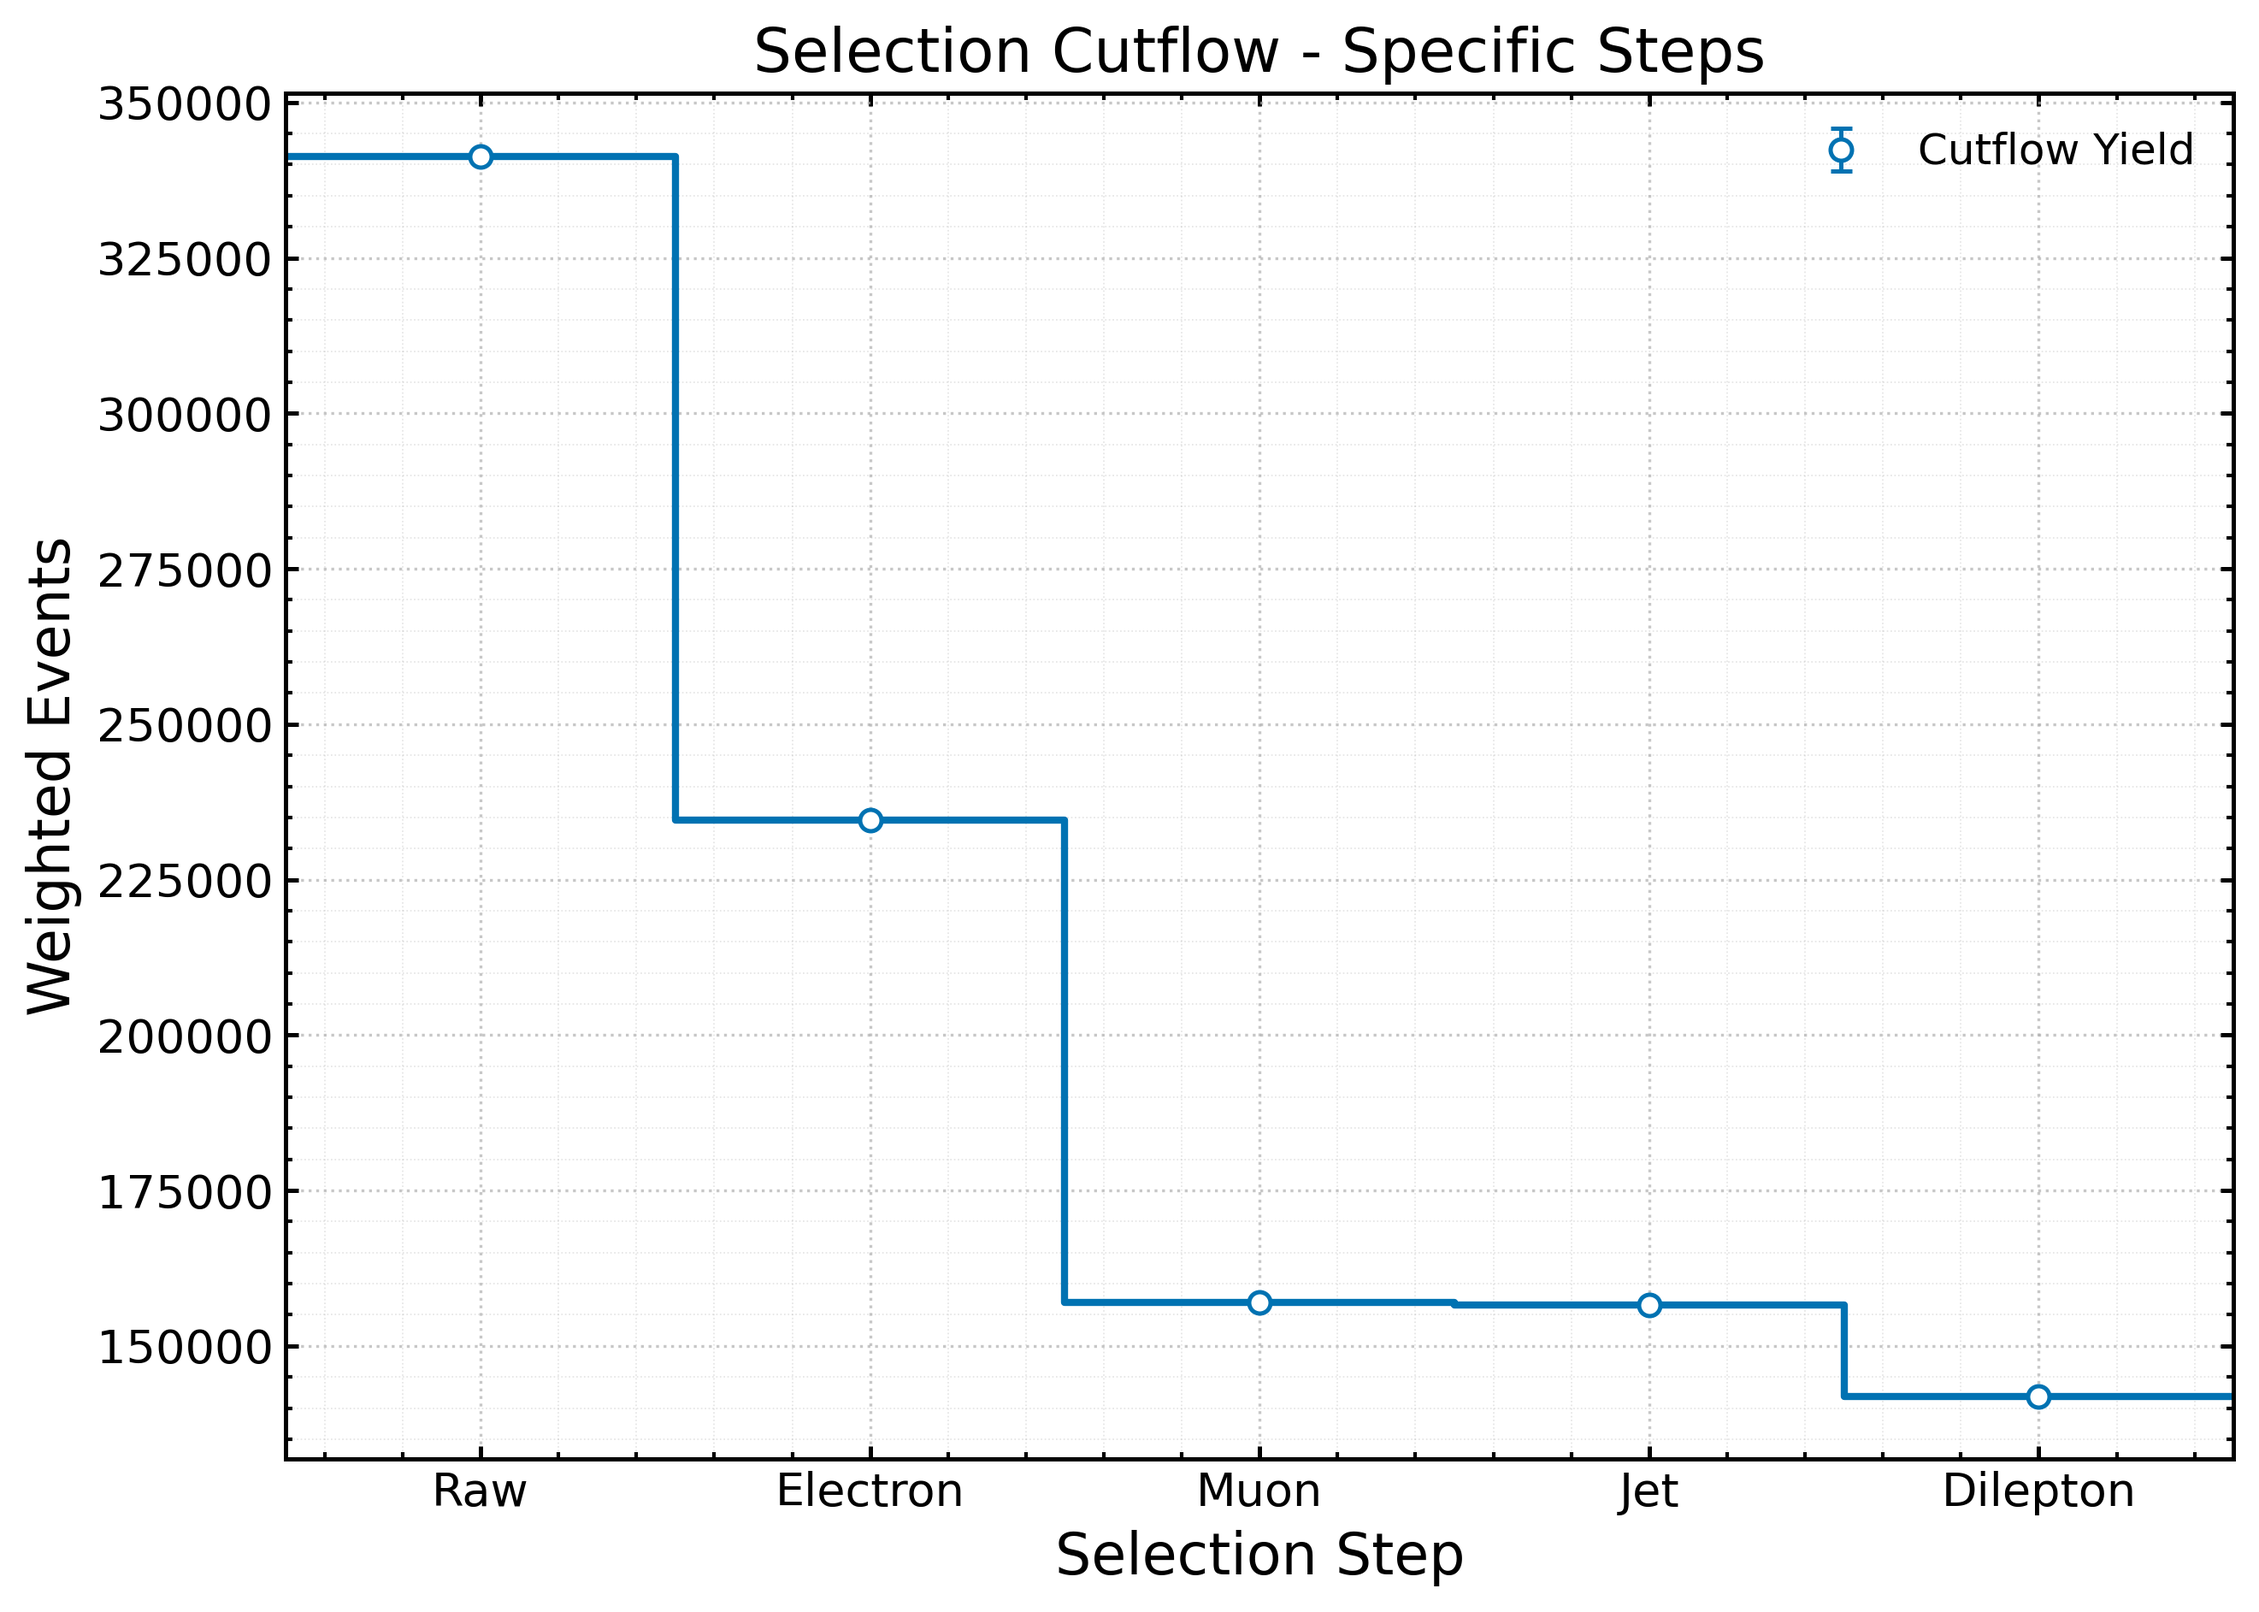
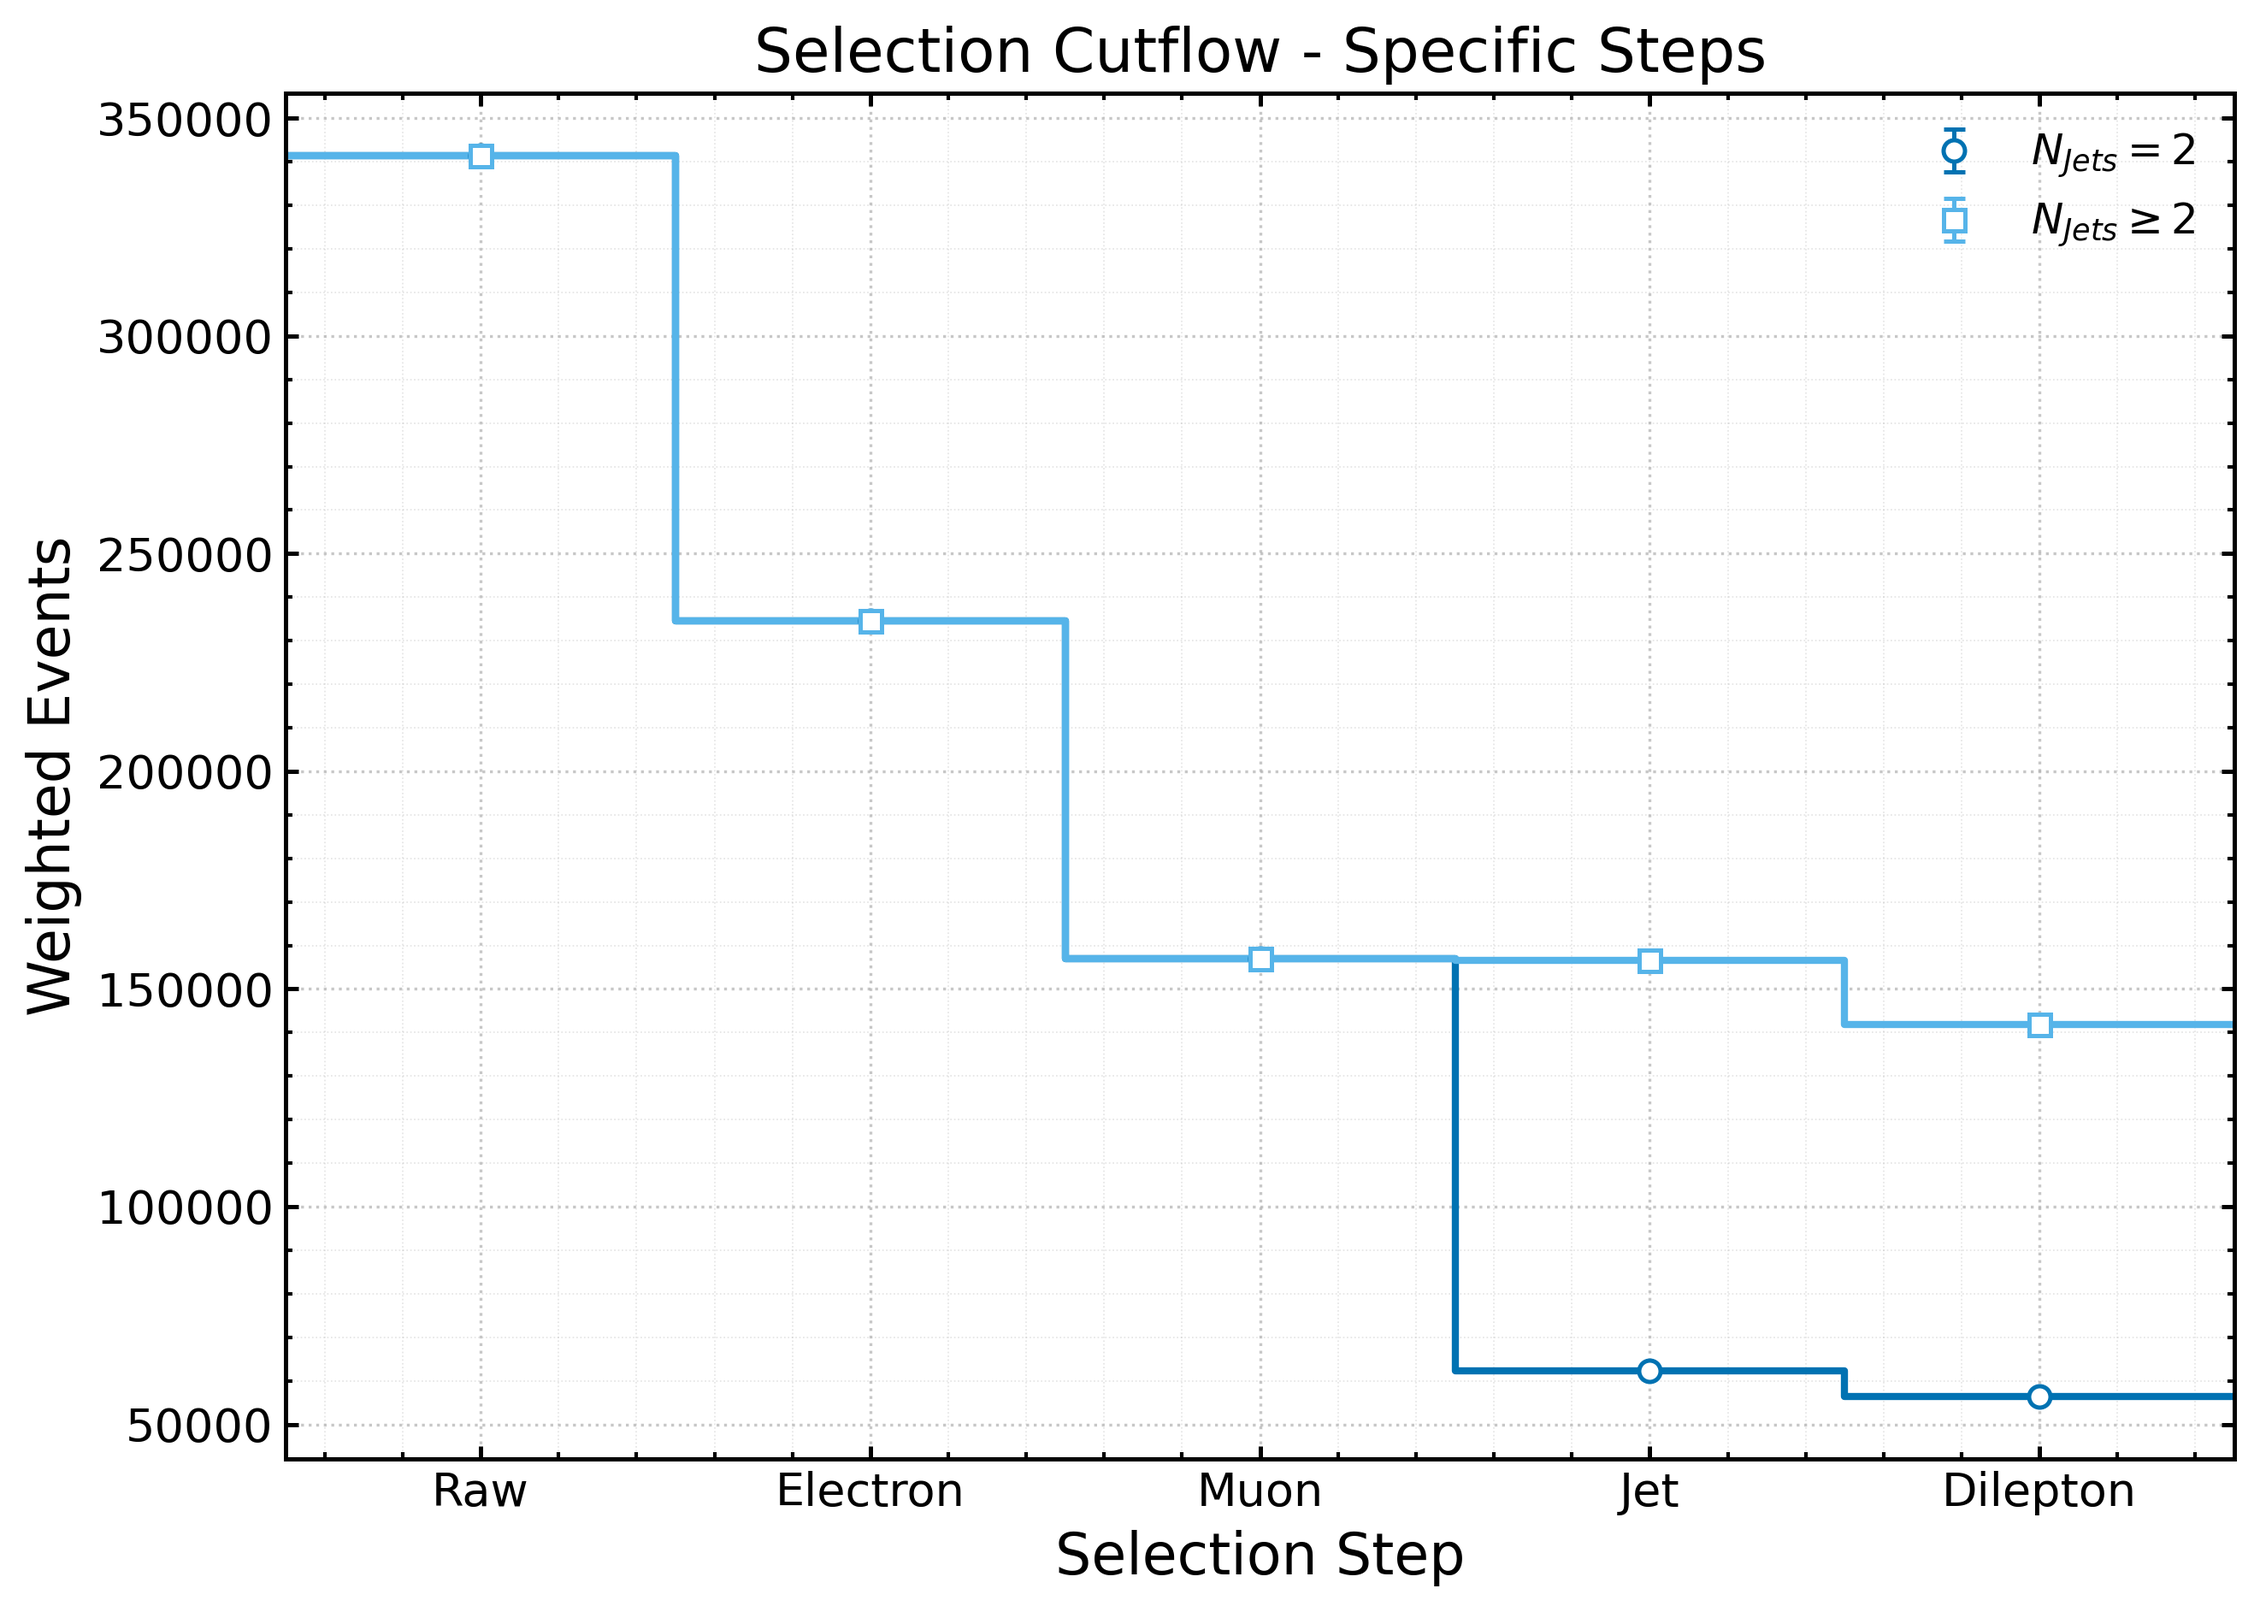
2.11.6 - Jet selection correction and only the cut-flow plot had to be corrected

diff --git a/weight_distro_debug.py b/weight_distro_debug.py
@@ -3,19 +3,67 @@ import awkward as ak
 import numpy as np
 import matplotlib.pyplot as plt
 
+# ------------------------------------------------
 # Open ROOT file
-file = uproot.open("output_ntuples/ttll_601230_mc23a_fullsim.root")
+# ------------------------------------------------
+filename = "output_ntuples/ttll_601230_mc23a_fullsim.root"
+treename = "reco"
 
-# Access tree
-tree = file["reco"]
+# ------------------------------------------------
+# MC normalisation
+# ------------------------------------------------
+luminosity = 29300.0
+xsec = 85.482
+filter_eff = 1.0
+kfactor = 1.138433852
+sum_of_weights = 4268786417.0
 
-# Read event weights
-weights = tree["weight_mc_NOSYS"].array(library="ak")
+norm = luminosity * xsec * filter_eff * kfactor / sum_of_weights
 
+# ------------------------------------------------
+# Branches
+# ------------------------------------------------
+branches = [
+    "weight_mc_NOSYS",
+    "weight_pileup_NOSYS",
+    "weight_leptonSF_tight_NOSYS",
+    "weight_jvt_effSF_NOSYS",
+]
+
+# ------------------------------------------------
+# Read arrays
+# ------------------------------------------------
+with uproot.open(filename) as f:
+    tree = f[treename]
+    arr = tree.arrays(branches, library="ak")
+
+# ------------------------------------------------
+# Total event weight
+# ------------------------------------------------
+total_weights = (
+    arr["weight_mc_NOSYS"]
+    * arr["weight_pileup_NOSYS"]
+    * arr["weight_leptonSF_tight_NOSYS"]
+    * arr["weight_jvt_effSF_NOSYS"]
+    * norm
+)
+
+# ------------------------------------------------
 # Convert to numpy
-weights_np = ak.to_numpy(weights)
+# ------------------------------------------------
+weights_np = ak.to_numpy(total_weights)
 
-# Plot
+# ------------------------------------------------
+# Print first 10 weights
+# ------------------------------------------------
+print("\nFirst 10 total event weights:\n")
+
+for i, w in enumerate(weights_np[:10]):
+    print(f"{i:2d} : {w:.12e}")
+
+# ------------------------------------------------
+# Plot distribution
+# ------------------------------------------------
 plt.figure(figsize=(8,6))
 
 plt.hist(
@@ -24,12 +72,17 @@ plt.hist(
     histtype="step",
 )
 
-plt.xlabel("Event weight")
-plt.ylabel("Events")
-plt.title("Event-weight distribution")
+plt.xlabel("Total Event Weight")
+plt.ylabel("Number of Events")
+plt.title("Total Event-Weight Distribution")
 
-plt.yscale("log")   # usually useful
-plt.grid(True)
+plt.yscale("log")
+plt.grid(True, alpha=0.3)
 
-plt.savefig("event_weight_distribution_debug.png")
+plt.tight_layout()
+
+plt.savefig("total_event_weight_distribution_debug.png")
 plt.close()
+
+print("\nSaved plot:")
+print("total_event_weight_distribution_debug.png")

diff --git a/cutflow_histogramplot.py b/cutflow_histogramplot.py
@@ -6,11 +6,19 @@ import matplotlib.pyplot as plt
 # Format: [step_index, yield, error]
 # =================================================
 cutflow_data = np.array([
-    [0, 341360.687500, 141.095291],  # Raw
-    [1, 234636.984375, 118.574173],  # Electron
-    [2, 156940.703125, 96.629234],   # Muon
-    [3, 156629.250000, 96.533752],   # Jet
-    [4, 141930.312500, 91.901764],   # Dilepton
+    [0, 341359.781250, 141.087799],  # Raw
+    [1, 234633.218750, 118.573502],  # Electron
+    [2, 156931.593750, 96.629913],   # Muon
+    [3, 62245.519531, 60.859730],    # Jet
+    [4, 56412.792969, 57.957935],    # Dilepton
+], dtype=float)
+
+cutflow_nj_geq2 = np.array([
+    [0, 341359.781250, 141.087799],  # Raw
+    [1, 234633.218750, 118.573502],  # Electron
+    [2, 156931.593750, 96.629913],   # Muon
+    [3, 156620.046875, 96.534782],    # Jet
+    [4, 141923.625000, 91.901085],    # Dilepton
 ], dtype=float)
 
 labels = ["Raw", "Electron", "Muon", "Jet", "Dilepton"]
@@ -41,6 +49,9 @@ plt.rcParams.update({
 
 COLOR = "#0072B2"  # Okabe–Ito blue
 MARKER = "o"
+
+COLOR2 = "#56B4E9"
+MARKER2 = "s"
 
 BIN_WIDTH = 1.0
 
@@ -84,10 +95,42 @@ def plot_with_errorbars(ax, x, y, yerr, label, bin_width=1.0):
         zorder=3
     )
 
+def plot_with_errorbars2(ax, x, y, yerr, label, bin_width=1.0):
+    edges = centres_to_edges(x, width=bin_width)
+
+    # Step histogram
+    ax.step(
+        edges,
+        np.r_[y, y[-1]],
+        where="post",
+        color=COLOR2,
+        linewidth=2.0,
+        zorder=2
+    )
+
+    # Marker + uncertainty
+    ax.errorbar(
+        x, y, yerr=yerr,
+        fmt=MARKER2,
+        color=COLOR2,
+        markerfacecolor="white",
+        markeredgecolor=COLOR2,
+        markersize=6,
+        markeredgewidth=1.2,
+        ecolor=COLOR2,
+        elinewidth=1.2,
+        capsize=3,
+        linewidth=0,
+        label=label,
+        zorder=3
+    )
+
 # =================================================
 # Unpack
 # =================================================
 x, y, yerr = unpack(cutflow_data)
+geq2_x, geq2_y, geq2_yerr = unpack(cutflow_nj_geq2)
+
 edges = centres_to_edges(x, width=BIN_WIDTH)
 
 # =================================================
@@ -95,7 +138,8 @@ edges = centres_to_edges(x, width=BIN_WIDTH)
 # =================================================
 fig, ax = plt.subplots()
 
-plot_with_errorbars(ax, x, y, yerr, "Cutflow Yield", bin_width=BIN_WIDTH)
+plot_with_errorbars(ax, x, y, yerr, r"$N_{Jets}=2$", bin_width=BIN_WIDTH)
+plot_with_errorbars2(ax, geq2_x, geq2_y, geq2_yerr, r"$N_{Jets}\geq2$", bin_width=BIN_WIDTH)
 
 ax.set_xlabel("Selection Step")
 ax.set_ylabel("Weighted Events")

diff --git a/cutflow_analysis.py b/cutflow_analysis.py
@@ -19,6 +19,7 @@ norm = luminosity * xsec * filter_eff * kfactor / sum_of_weights
 branches = [
     "selection_cuts_NOSYS",
 
+    "jet_size_NOSYS",
     "electron_selections_paper_NOSYS",
     "muon_selections_paper_NOSYS",
     "jet_selections_paper_NOSYS",
@@ -52,7 +53,7 @@ mask_raw = (arr["selection_cuts_NOSYS"] == 1) | (arr["selection_cuts_NOSYS"] == 
 
 mask_electron = mask_raw & (arr["electron_selections_paper_NOSYS"] == 1)
 mask_muon     = mask_electron & (arr["muon_selections_paper_NOSYS"] == 1)
-mask_jet      = mask_muon & (arr["jet_selections_paper_NOSYS"] == 1)
+mask_jet      = mask_muon & (arr["jet_selections_paper_NOSYS"] == 1) #& (arr["jet_size_NOSYS"] == 2)
 mask_dilepton = mask_jet & (arr["dilepton_selections_paper_NOSYS"] == 1)
 
 labels = ["Raw", "Electron", "Muon", "Jet", "Dilepton"]

diff --git a/event_number_counter.py b/event_number_counter.py
@@ -4,6 +4,7 @@ file = uproot.open("output_ntuples/ttll_601230_mc23a_fullsim.root")
 tree = file["reco"]
 
 n_events = tree.num_entries
+print("\nTotal event count:\n")
 print(n_events)
 
 import uproot
@@ -24,4 +25,5 @@ mask = arr["selection_cuts_NOSYS"] == 1
 # count events
 n_selected = ak.sum(mask)
 
+print("\nPost selection event count:\n")
 print(int(n_selected))
